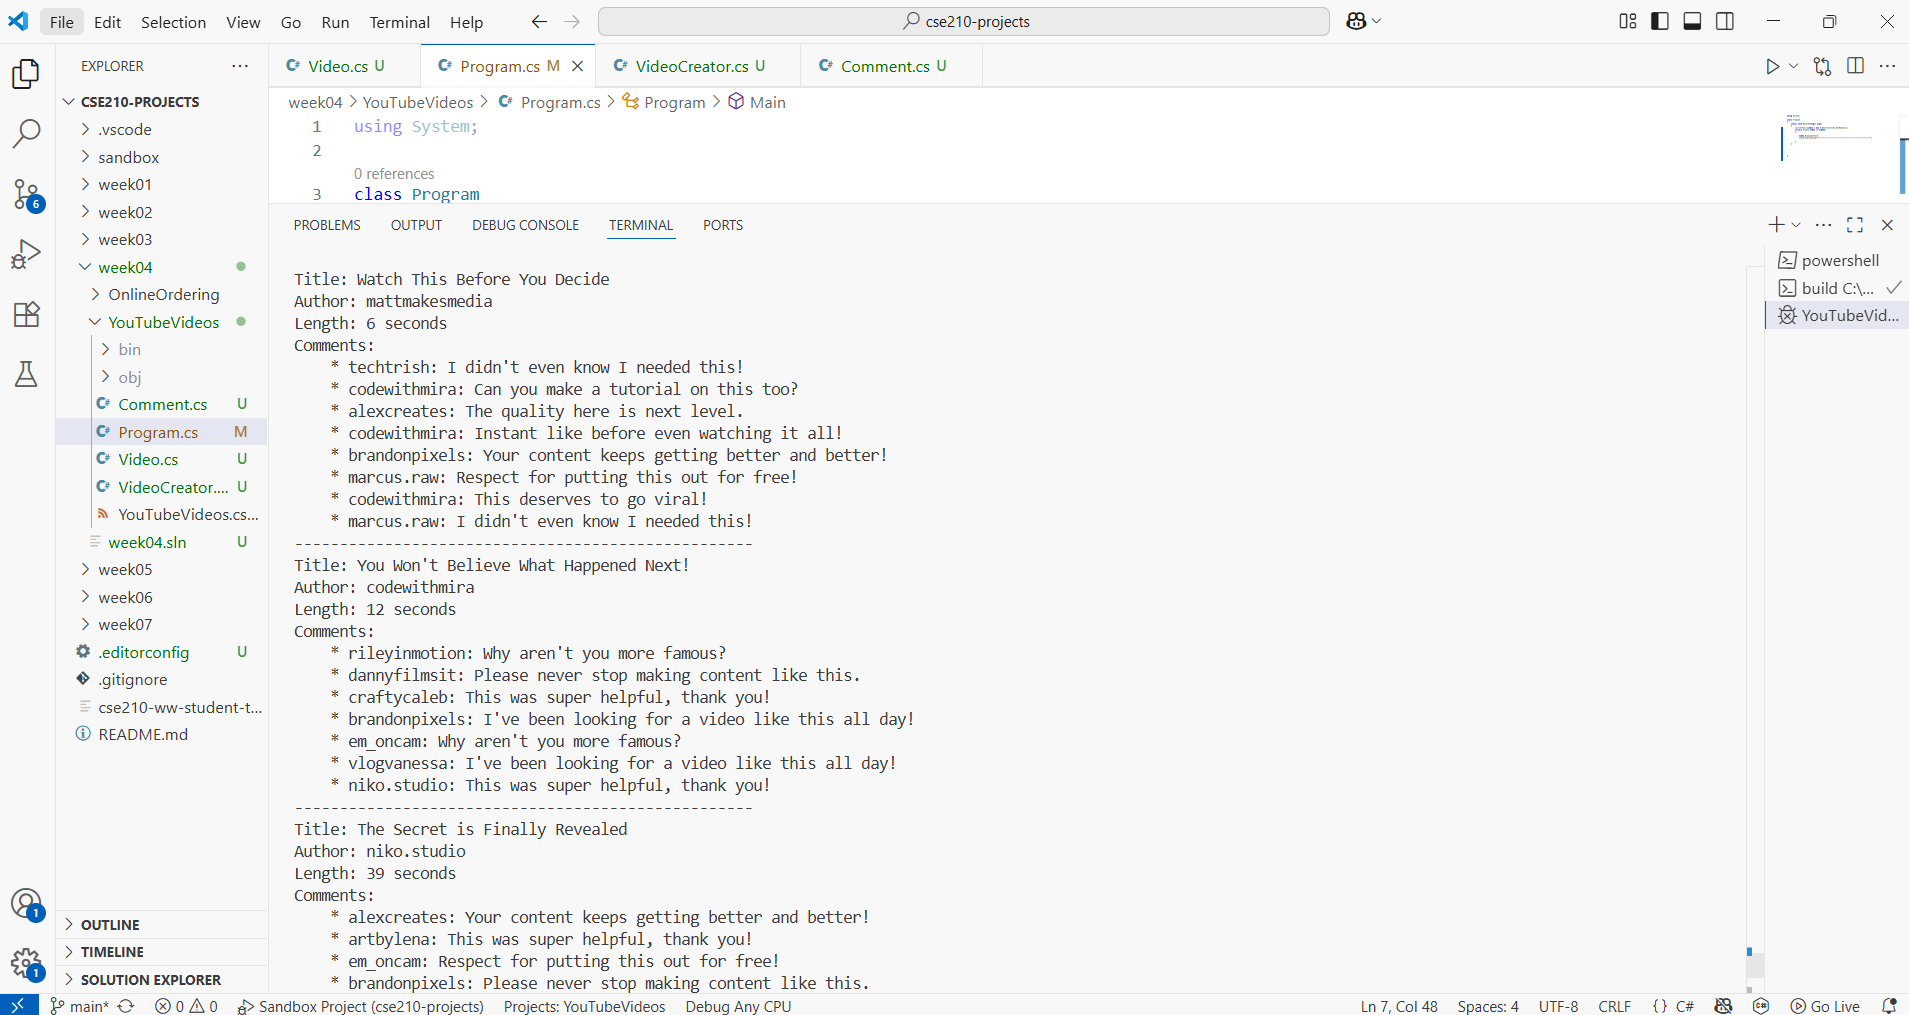
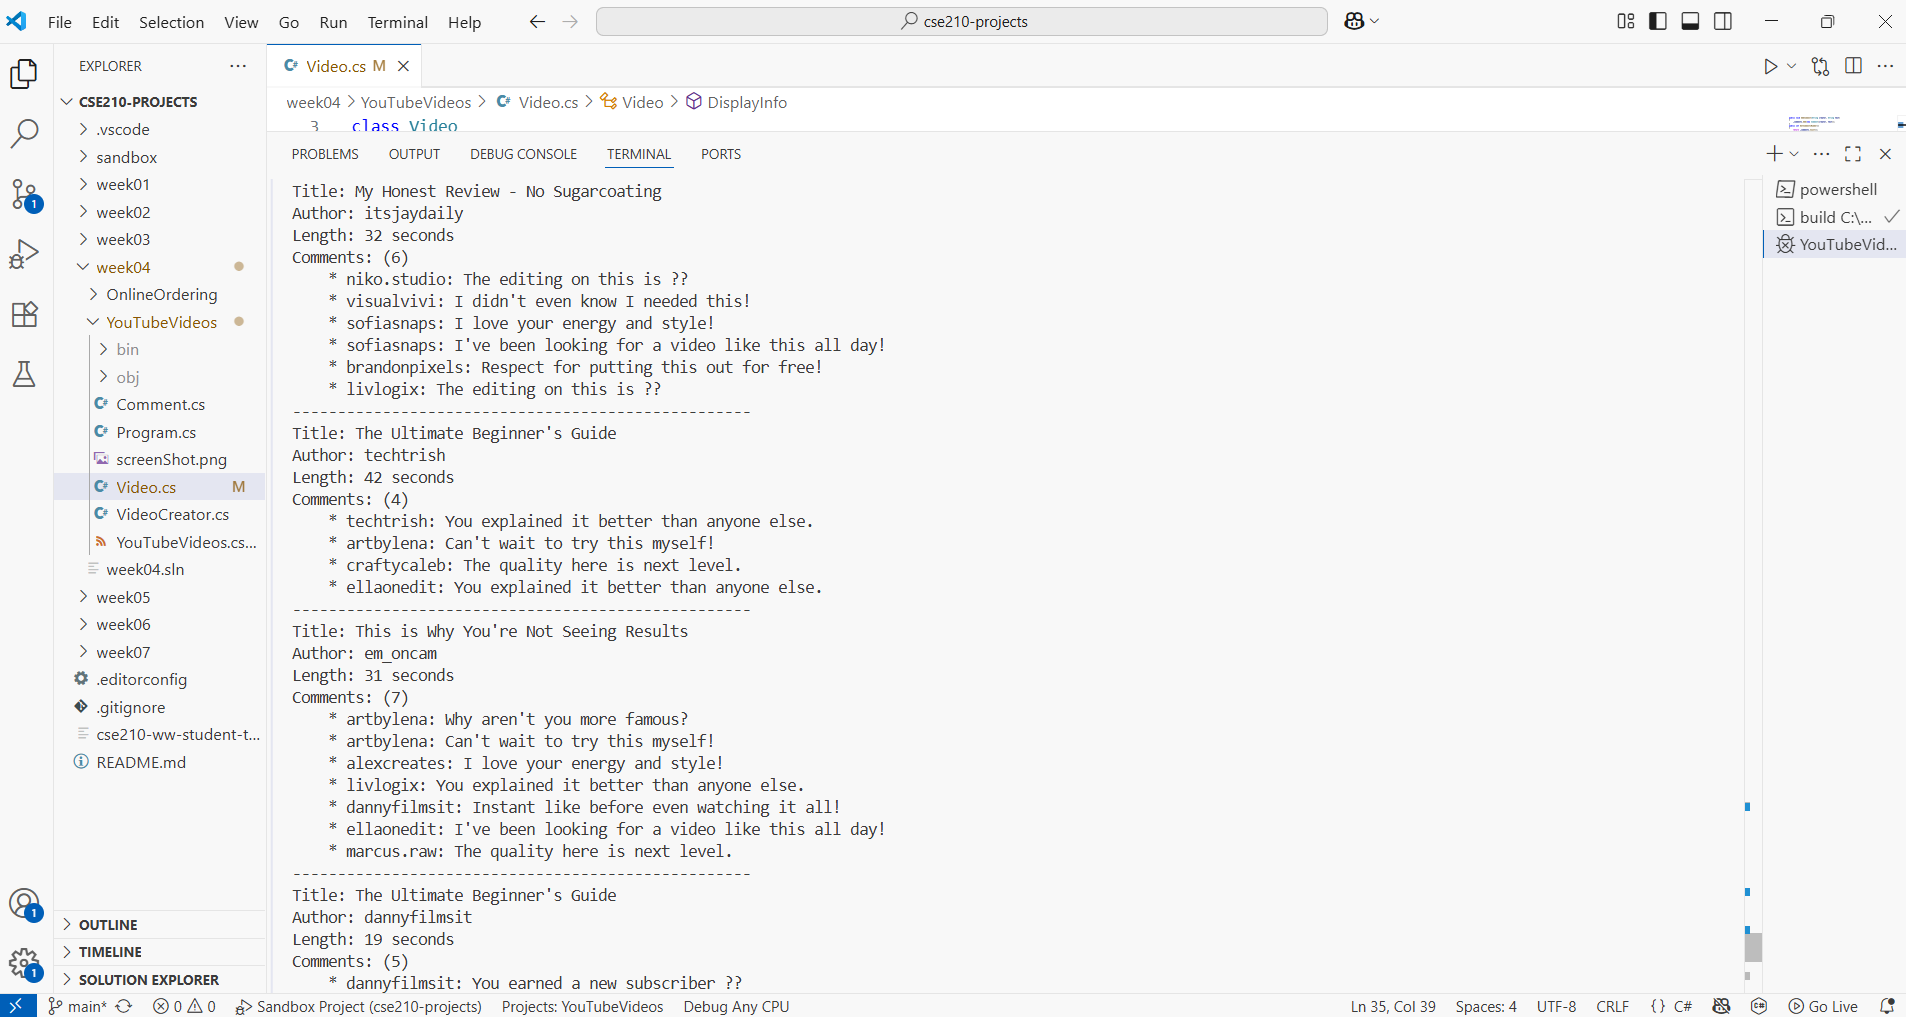
screen

diff --git a/week04/YouTubeVideos/Video.cs b/week04/YouTubeVideos/Video.cs
@@ -32,7 +32,7 @@ class Video
         Console.WriteLine($"Title: {_title}");
         Console.WriteLine($"Author: {_author}");
         Console.WriteLine($"Length: {_length} seconds");
-        Console.WriteLine("Comments: ");
+        Console.WriteLine($"Comments: ({GetCommentsNumber()})");
         foreach (Comment c in _comments)
         {
             c.Display();
